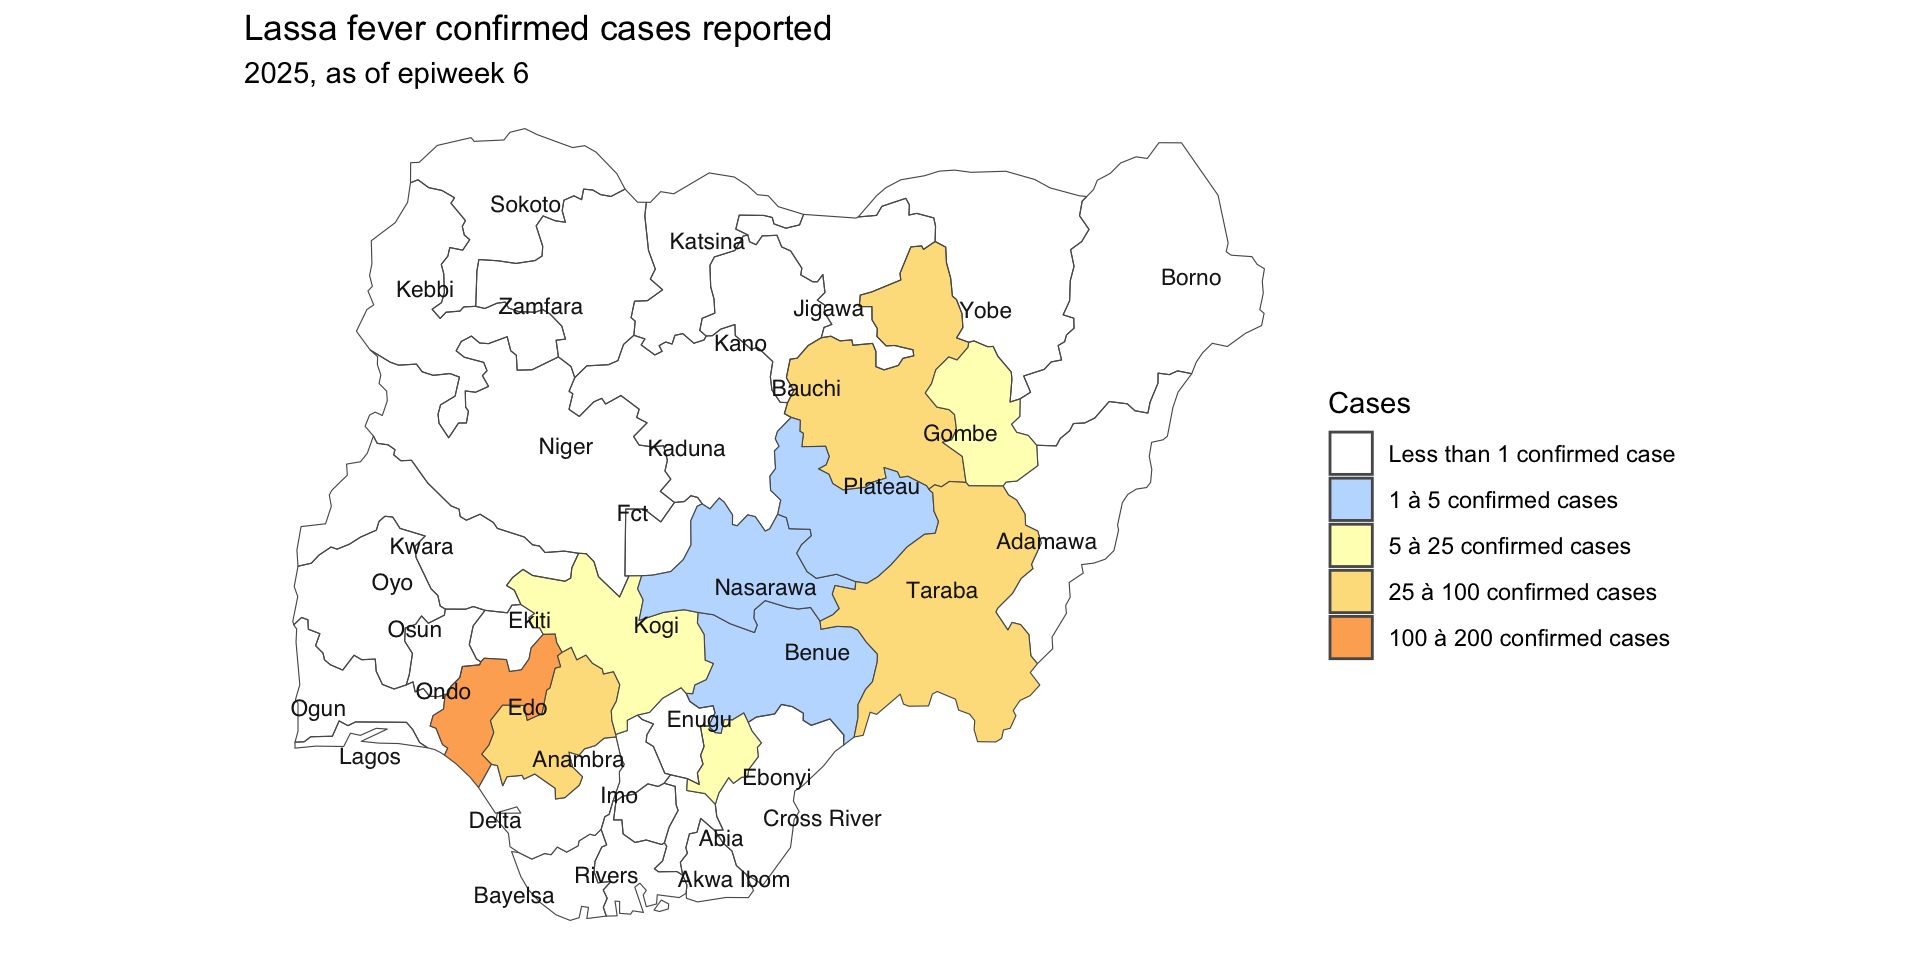
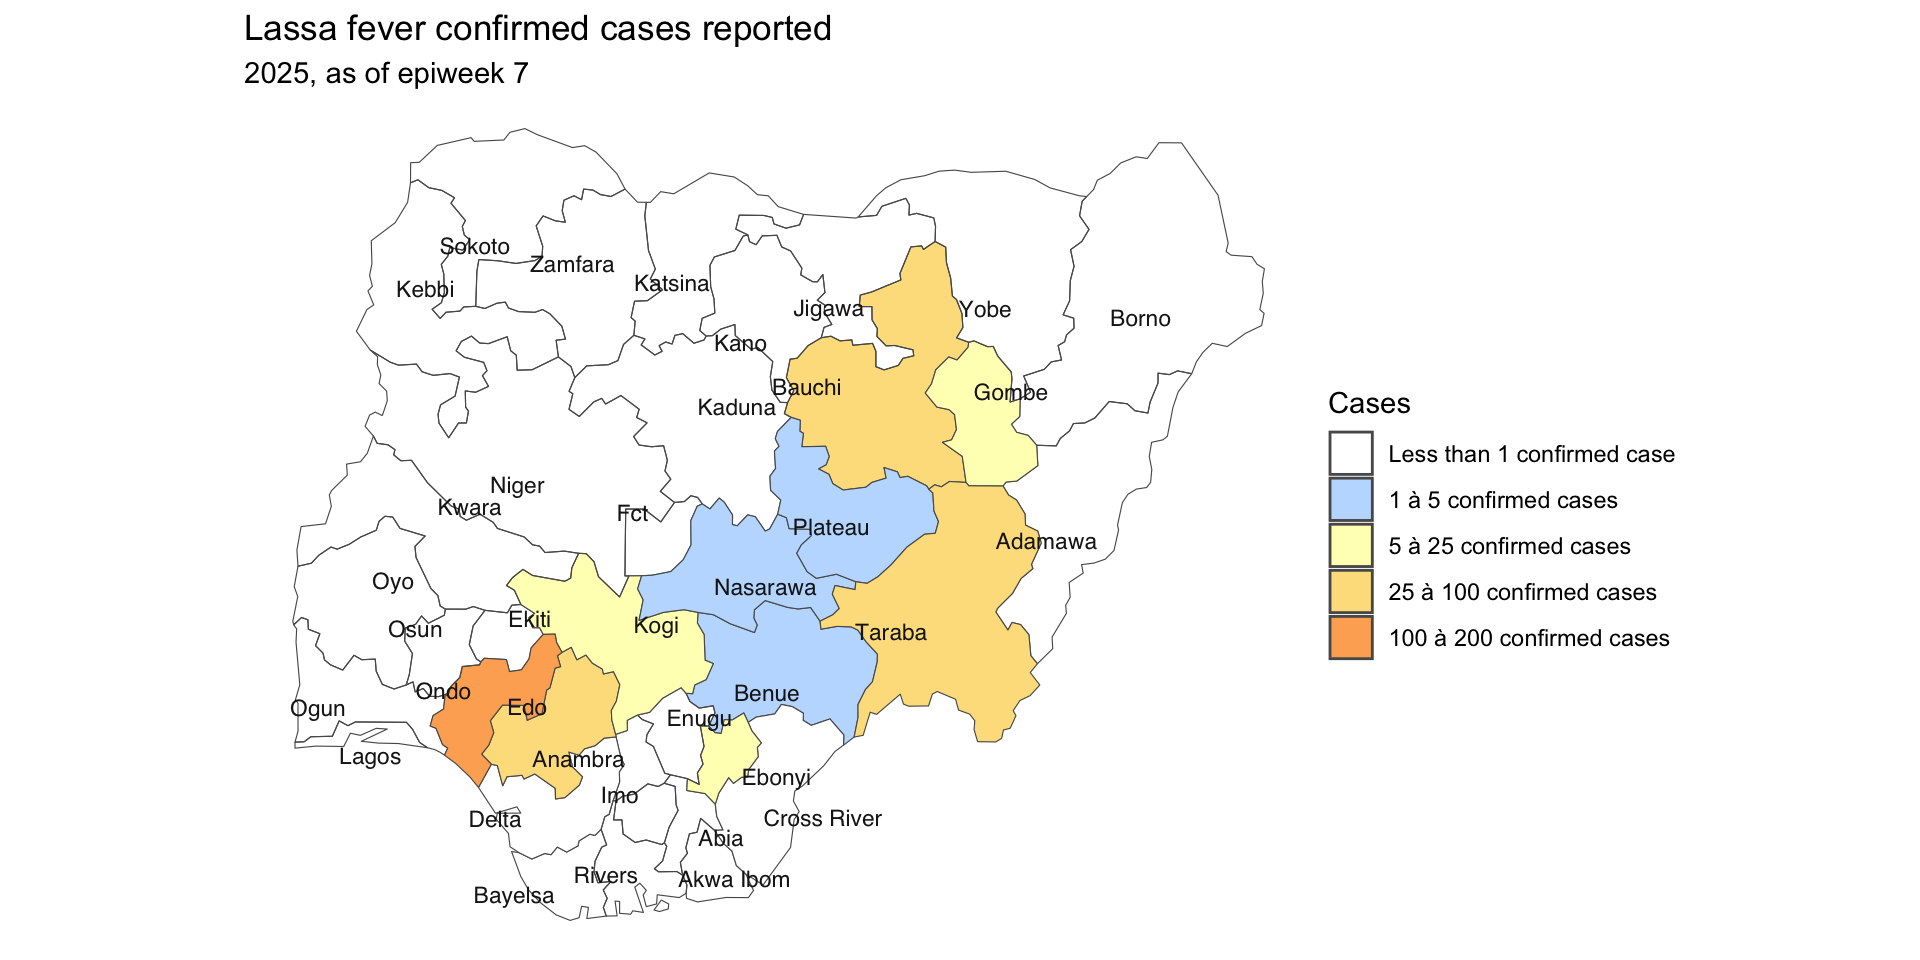
update

diff --git a/lassa_slides_who/lassa_nigeria_who.html b/lassa_slides_who/lassa_nigeria_who.html
@@ -11,7 +11,7 @@
   <meta name="generator" content="quarto-1.5.57">
 
   <meta name="author" content="Legand A, Chaillon A">
-  <meta name="dcterms.date" content="2025-02-26">
+  <meta name="dcterms.date" content="2025-02-28">
   <title>Overview of the Lassa fever situation in Nigeria</title>
   <meta name="apple-mobile-web-app-capable" content="yes">
   <meta name="apple-mobile-web-app-status-bar-style" content="black-translucent">
@@ -342,7 +342,7 @@ Legand A, Chaillon A
     </div>
 </div>
 
-  <p class="date">2025-02-26</p>
+  <p class="date">2025-02-28</p>
 </section>
 <section>
 <section id="lassa-fever-in-nigeria---data-from-2020-to-2024" class="title-slide slide level1 center" data-background-gradient="radial-gradient(#283b95, #17b2c3)">
@@ -408,8 +408,8 @@ Legand A, Chaillon A
 </div><div class="column" style="width:30%;">
 <p>Cumulatively, from January 2018 to December 2024, 75% of all Lassa fever confirmed cases were from Ondo (33%), Edo (31%) and Bauchi (11%) States.</p>
 <ul>
-<li>Total confirmed cases: 5757</li>
-<li>Deaths from Confirmed Cases: 1056</li>
+<li>Total confirmed cases: 5795</li>
+<li>Deaths from Confirmed Cases: 1065</li>
 <li>Case Fatality Ratio: 20%</li>
 <li>Number of Health Care Workers: 227</li>
 </ul>
@@ -488,8 +488,8 @@ Legand A, Chaillon A
 </div></div>
 </section></section>
 <section>
-<section id="lassa-fever-in-2025---data-from-epi-week-1-to-epi-week-6" class="title-slide slide level1 center">
-<h1>Lassa fever in 2025 - Data from epi-week 1 to epi-week 6</h1>
+<section id="lassa-fever-in-2025---data-from-epi-week-1-to-epi-week-7" class="title-slide slide level1 center">
+<h1>Lassa fever in 2025 - Data from epi-week 1 to epi-week 7</h1>
 
 </section>
 <section id="cumulative-number-of-confirmed-lassa-fever-cases" class="slide level2">
@@ -550,10 +550,10 @@ Legand A, Chaillon A
 </div>
 </div><div class="column" style="width:30%;">
 <ul>
-<li><p>In 2025, as of epi week 6, 89% of LF cases are from Ondo (34%), Bauchi (21%), Edo (18%), and Taraba (15%) States.</p></li>
-<li><p>Total confirmed cases: 413</p></li>
-<li><p>Deaths from Confirmed Cases: 80</p></li>
-<li><p>Case Fatality Ratio: 1%</p></li>
+<li><p>In 2025, as of epi week 7, 89% of LF cases are from Ondo (33%), Bauchi (22%), Edo (18%), and Taraba (16%) States.</p></li>
+<li><p>Total confirmed cases: 451</p></li>
+<li><p>Deaths from Confirmed Cases: 89</p></li>
+<li><p>Case Fatality Ratio: 2%</p></li>
 <li><p>Number of Health Care Workers: 15</p></li>
 </ul>
 </div></div>
@@ -603,15 +603,15 @@ Legand A, Chaillon A
 </div>
 </div><div class="column" style="width:30%;">
 <ul>
-<li>As of epi week 6 2025, <strong>cumulatively 413 cases and 80 deaths (CFR=19%) across 11 States</strong> have been reported</li>
+<li>As of epi week 7 2025, <strong>cumulatively 451 cases and 89 deaths (CFR=20%) across 12 States</strong> have been reported</li>
 <li>At same period 2024, a total of <strong>21 States</strong> reported at least one confirmed cases.</li>
 <li>There is a <strong>10% decrease in the number of suspected cases reported in 2025</strong> compared to 2024.</li>
 <li>In 2024, 32 States had reported at least one suspected case versus 27 in 2025 to date.</li>
 </ul>
 </div></div>
 </section>
-<section id="health-care-worker-infections-2020-2025-epiweek-6" class="slide level2">
-<h2>Health care worker infections 2020-2025 epiweek 6</h2>
+<section id="health-care-worker-infections-2020-2025-epiweek-7" class="slide level2">
+<h2>Health care worker infections 2020-2025 epiweek 7</h2>
 <div class="columns">
 <div class="column" style="width:70%;">
 <div class="cell" title="Cumulative number">
@@ -625,14 +625,14 @@ Legand A, Chaillon A
 </div>
 </div><div class="column" style="width:30%;">
 <ul>
-<li>As of epi week 6 of 2025, there has been 15 healthcare workers infected, that is 4% of confirmed cases.</li>
+<li>As of epi week 7 of 2025, there has been 15 healthcare workers infected, that is 3% of confirmed cases.</li>
 <li>8 HCW infections in Ondo*, 3 in Bauchi,2 in Gombe, 1 in Edo and 1 in Taraba.</li>
 </ul>
 </div></div>
 </section></section>
 <section>
-<section id="lassa-fever-in-most-affected-states---data-from-2023-to-2025-as-of-epi-week-6" class="title-slide slide level1 center" data-background-gradient="radial-gradient(#283b95, #17b2c3)">
-<h1>Lassa fever in most affected States - Data from 2023 to 2025 (as of epi-week 6)</h1>
+<section id="lassa-fever-in-most-affected-states---data-from-2023-to-2025-as-of-epi-week-7" class="title-slide slide level1 center" data-background-gradient="radial-gradient(#283b95, #17b2c3)">
+<h1>Lassa fever in most affected States - Data from 2023 to 2025 (as of epi-week 7)</h1>
 
 </section>
 <section id="lassa-fever-in-ondo-state-2023-2024-vs-2025" class="slide level2">
@@ -680,7 +680,7 @@ Legand A, Chaillon A
 </div><div class="column" style="width:20%;">
 <p><br><br><br><br></p>
 <ul>
-<li>As of week 6, 2025, Ondo State reported <strong>975 confirmed cases</strong> including <strong>97 deaths</strong> (CFR 10%).</li>
+<li>As of week 7, 2025, Ondo State reported <strong>983 confirmed cases</strong> including <strong>98 deaths</strong> (CFR 10%).</li>
 </ul>
 </div></div>
 </section>
@@ -729,7 +729,7 @@ Legand A, Chaillon A
 </div><div class="column" style="width:20%;">
 <p><br><br><br><br></p>
 <ul>
-<li>As of week 6, 2025, Bauchi State reported <strong>533 confirmed cases</strong> including <strong>100 deaths</strong> (CFR 19%).</li>
+<li>As of week 7, 2025, Bauchi State reported <strong>547 confirmed cases</strong> including <strong>102 deaths</strong> (CFR 19%).</li>
 </ul>
 </div></div>
 </section>
@@ -778,7 +778,7 @@ Legand A, Chaillon A
 </div><div class="column" style="width:20%;">
 <p><br><br><br><br></p>
 <ul>
-<li>As of week 6, 2025, Edo State reported <strong>714 confirmed cases</strong> including <strong>92 deaths</strong> (CFR 13%).</li>
+<li>As of week 7, 2025, Edo State reported <strong>718 confirmed cases</strong> including <strong>93 deaths</strong> (CFR 13%).</li>
 </ul>
 </div></div>
 </section>
@@ -827,7 +827,7 @@ Legand A, Chaillon A
 </div><div class="column" style="width:20%;">
 <p><br><br><br><br></p>
 <ul>
-<li>As of week 6, 2025, Taraba State reported <strong>278 confirmed cases</strong> including <strong>75 deaths</strong> (CFR 27%).</li>
+<li>As of week 7, 2025, Taraba State reported <strong>286 confirmed cases</strong> including <strong>78 deaths</strong> (CFR 27%).</li>
 </ul>
 </div></div>
 </section>
@@ -876,7 +876,7 @@ Legand A, Chaillon A
 </div><div class="column" style="width:20%;">
 <p><br><br><br><br></p>
 <ul>
-<li>As of week 6, 2025, Ebonyi State reported <strong>121 confirmed cases</strong> including <strong>67 deaths</strong> (CFR 55%).</li>
+<li>As of week 7, 2025, Ebonyi State reported <strong>121 confirmed cases</strong> including <strong>67 deaths</strong> (CFR 55%).</li>
 </ul>
 </div></div>
 </section>
@@ -925,7 +925,7 @@ Legand A, Chaillon A
 </div><div class="column" style="width:20%;">
 <p><br><br><br><br></p>
 <ul>
-<li>As of week 6, 2025, Cogi State reported <strong>60 confirmed cases</strong> including <strong>9 deaths</strong> (CFR 15%).</li>
+<li>As of week 7, 2025, Cogi State reported <strong>61 confirmed cases</strong> including <strong>9 deaths</strong> (CFR 15%).</li>
 </ul>
 </div></div>
 </section>
@@ -974,7 +974,7 @@ Legand A, Chaillon A
 </div><div class="column" style="width:20%;">
 <p><br><br><br><br></p>
 <ul>
-<li>As of week 6, 2025, Gombe State reported <strong>26 confirmed cases</strong> including <strong>11 deaths</strong> (CFR 42%).</li>
+<li>As of week 7, 2025, Gombe State reported <strong>26 confirmed cases</strong> including <strong>11 deaths</strong> (CFR 42%).</li>
 </ul>
 </div></div>
 </section>
@@ -1023,7 +1023,7 @@ Legand A, Chaillon A
 </div><div class="column" style="width:20%;">
 <p><br><br><br><br></p>
 <ul>
-<li>As of week 6, 2025, Benue State reported <strong>107 confirmed cases</strong> including <strong>18 deaths</strong> (CFR 17%).</li>
+<li>As of week 7, 2025, Benue State reported <strong>107 confirmed cases</strong> including <strong>18 deaths</strong> (CFR 17%).</li>
 </ul>
 </div></div>
 </section></section>
@@ -1032,7 +1032,7 @@ Legand A, Chaillon A
 <div class="quarto-auto-generated-content">
 <p><img src="https://github.com/achaillon/achaillon.github.io/blob/main/logos/my_logo_noback.png?raw=true" class="slide-logo"></p>
 <div class="footer footer-default">
-<p>As of 2025, week 6</p>
+<p>As of 2025, week 7</p>
 </div>
 </div>
 </section>
